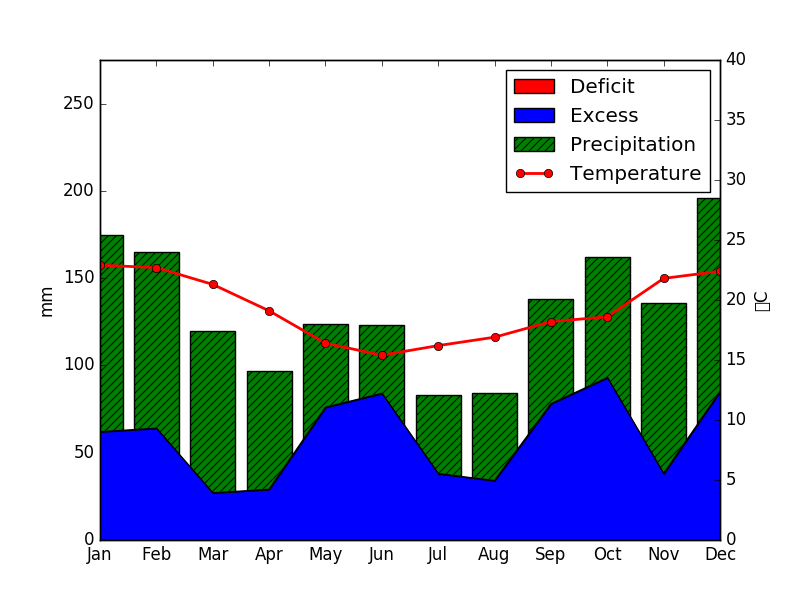
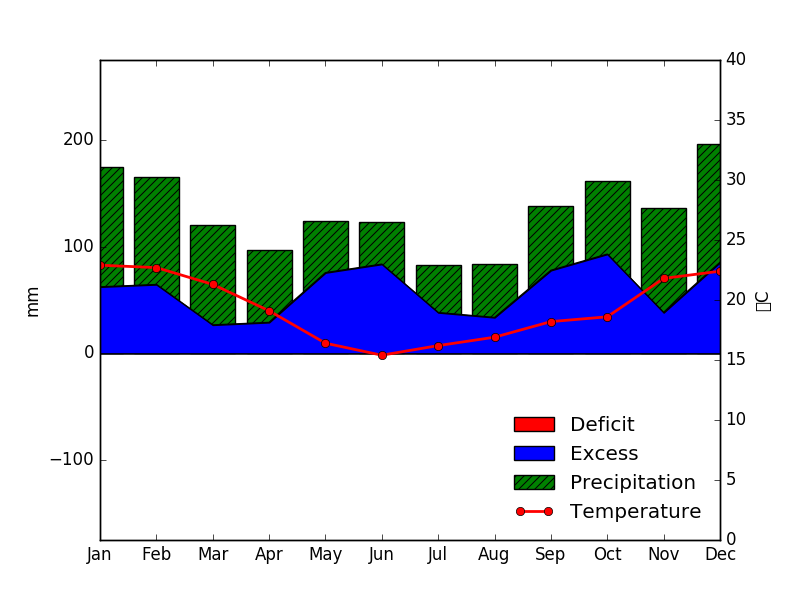
python3 update

diff --git a/graficos.py b/graficos.py
@@ -78,7 +78,7 @@ fig = plt.figure()
 ax = fig.gca(projection='3d')
 
 tck = interpolate.bisplrep(x_prev, y_prev, z, s=0)
-z_new = interpolate.bisplev(x_n[:,0], y_n[0,:], tck)
+z_new = interpolate.bisplev(x_n[:, 0], y_n[0,:], tck)
 
 surf = ax.plot_surface(x_n, y_n, z_new, rstride=1, cstride=1, cmap=cm.coolwarm,
                        linewidth=0, antialiased=True, alpha=0.7)
@@ -119,10 +119,10 @@ media_primavera = np.array([97.22, 53.25,
                             66.67, 59.44,
                             58.54, 55.00])
 
-z_primavera = np.polyfit(vol_primavera, media_primavera, 2)
-primavera_liner_reg = stats.linregress(vol_primavera, media_primavera)
+z_primavera = np.polyfit(vol_primavera[1:], media_primavera[1:], 2)
+primavera_liner_reg = stats.linregress(vol_primavera[1:], media_primavera[1:])
 p_primavera = np.poly1d(z_primavera)
-print pow(primavera_liner_reg.rvalue, 2), z_primavera
+print(pow(primavera_liner_reg.rvalue, 2), z_primavera)
 
 vol_verao = np.array([376.80, 384.20,
                       459.90, 481.40,
@@ -139,7 +139,7 @@ media_verao = np.array([60.24, 53.66,
 z_verao = np.polyfit(vol_verao, media_verao, 2)
 verao_liner_reg = stats.linregress(media_verao, media_verao)
 p_verao = np.poly1d(z_verao)
-print pow(verao_liner_reg.rvalue, 2), z_verao
+print(pow(verao_liner_reg.rvalue, 2), z_verao)
 
 vol_outono= np.array([144.00, 172.80,
                       174.80, 182.00,
@@ -156,7 +156,7 @@ media_outono = np.array([60.00, 54.63,
 z_outono = np.polyfit(vol_outono, media_outono, 2)
 outono_liner_reg = stats.linregress(vol_outono, media_outono)
 p_outono = np.poly1d(z_outono)
-print pow(outono_liner_reg.rvalue, 2), z_outono
+print(pow(outono_liner_reg.rvalue, 2), z_outono)
 
 vol_inverno = np.array([92.70, 97.10,
                         106.40, 109.00,
@@ -173,11 +173,11 @@ media_inverno = np.array([65.37, 66.11,
 z_inverno = np.polyfit(vol_inverno, media_inverno, 2)
 inverno_liner_reg = stats.linregress(vol_inverno, media_inverno)
 p_inverno = np.poly1d(z_inverno)
-print pow(inverno_liner_reg.rvalue, 2), z_inverno
+print(pow(inverno_liner_reg.rvalue, 2), z_inverno)
 
 
 #suavizando curva do grafico no eixo x para todos os valores
-vol_primavera_smooth = np.linspace(vol_primavera.min(), vol_primavera.max(), 300)
+vol_primavera_smooth = np.linspace(vol_primavera[1:].min(), vol_primavera[1:].max(), 300)
 vol_verao_smooth = np.linspace(vol_verao.min(), vol_verao.max(), 300)
 vol_outono_smooth= np.linspace(vol_outono.min(), vol_outono.max(), 300)
 vol_inverno_smooth = np.linspace(vol_inverno.min(), vol_inverno.max(), 300)
@@ -188,20 +188,20 @@ vol_inverno_smooth = np.linspace(vol_inverno.min(), vol_inverno.max(), 300)
 plt.subplot(221)
 
 #suavisando no eixo y
-smooth_primavera = spline(vol_primavera, p_primavera(vol_primavera), vol_primavera_smooth)
-print smooth_primavera
+smooth_primavera = spline(vol_primavera[1:], p_primavera(vol_primavera[1:]), vol_primavera_smooth)
+print(smooth_primavera)
 # fim
 plt.plot(vol_primavera, media_primavera, 'ks', vol_primavera_smooth, smooth_primavera, 'r-', lw=1)
 plt.axis([0, 1100, 45, 100])
 plt.setp(plt.gca(),  yticks=range(50, 105, 5), xticks=(0, 200, 400, 600, 800, 1000), xticklabels=[])
 plt.text(50, 90, 'A - Spring', fontsize=15)
 plt.ylabel('Accuracy (%)')
-plt.text(300, 75, r'$R^2 = 0.60$', fontsize=10)
+plt.text(300, 75, r'$R^2 = 0.73$', fontsize=10)
 
 plt.subplot(222)
 #suavisando no eixo y
 smooth_verao = spline(vol_verao, p_verao(vol_verao), vol_verao_smooth)
-print smooth_verao
+print(smooth_verao)
 # fim
 plt.plot(vol_verao, media_verao, 'ks', vol_verao_smooth, smooth_verao, 'r-', lw=1)
 plt.axis([0, 1100, 45, 100])
@@ -230,7 +230,7 @@ smooth_inverno = spline(vol_inverno, p_inverno(vol_inverno), vol_inverno_smooth)
 plt.plot(vol_inverno, media_inverno, 'ks', vol_inverno_smooth, smooth_inverno, 'r-', lw=1)
 plt.axis([0, 1100, 45, 100])
 plt.setp(plt.gca(), yticks=range(50, 105, 5),  yticklabels=[], xticks=(0, 200, 400, 600, 800, 1000))
-plt.text(50, 90, 'S - Winter', fontsize=15)
+plt.text(50, 90, 'D - Winter', fontsize=15)
 plt.xlabel('Precipitation (m)')
 plt.text(300, 75, r'$R^2 = 0.62$', fontsize=10)
 
@@ -251,7 +251,7 @@ media_primavera = np.array([53.248138324, 97.2222222222,
 z_primavera = np.polyfit(distancia_mar, media_primavera, 2)
 primavera_liner_reg = stats.linregress(distancia_mar, media_primavera)
 p_primavera = np.poly1d(z_primavera)
-print pow(primavera_liner_reg.rvalue, 2), z_primavera
+print(pow(primavera_liner_reg.rvalue, 2), z_primavera)
 
 media_verao = np.array([60.2380952381, 53.6585365854,
                         66.8292682927, 73.6585365853,
@@ -262,7 +262,7 @@ media_verao = np.array([60.2380952381, 53.6585365854,
 z_verao = np.polyfit(distancia_mar, media_verao, 2)
 verao_liner_reg = stats.linregress(distancia_mar, media_verao)
 p_verao = np.poly1d(z_verao)
-print pow(verao_liner_reg.rvalue, 2), z_verao
+print(pow(verao_liner_reg.rvalue, 2), z_verao)
 
 media_outono = np.array([61.4919354839, 65.0000000000,
                          60.0000000000, 57.0731707317,
@@ -273,7 +273,7 @@ media_outono = np.array([61.4919354839, 65.0000000000,
 z_outono = np.polyfit(distancia_mar, media_outono, 2)
 outono_liner_reg = stats.linregress(distancia_mar, media_outono)
 p_outono = np.poly1d(z_outono)
-print pow(outono_liner_reg.rvalue, 2), z_outono
+print(pow(outono_liner_reg.rvalue, 2), z_outono)
 
 media_inverno = np.array([97.3978494624, 75.1219512195,
                           70.7317073171, 78.5365853658,
@@ -284,7 +284,7 @@ media_inverno = np.array([97.3978494624, 75.1219512195,
 z_inverno = np.polyfit(distancia_mar, media_inverno, 2)
 inverno_liner_reg = stats.linregress(distancia_mar, media_inverno)
 p_inverno = np.poly1d(z_inverno)
-print pow(inverno_liner_reg.rvalue, 2), z_inverno
+print(pow(inverno_liner_reg.rvalue, 2), z_inverno)
 
 
 #suavizando curva do grafico no eixo x para todos os valores
@@ -362,7 +362,7 @@ media_primavera = np.array([97.2222222222, 53.248138324,
 z_primavera = np.polyfit(altitude, media_primavera, 2)
 primavera_liner_reg = stats.linregress(altitude, media_primavera)
 p_primavera = np.poly1d(z_primavera)
-print pow(primavera_liner_reg.rvalue, 2), z_primavera
+print(pow(primavera_liner_reg.rvalue, 2), z_primavera)
 
 
 media_verao = np.array([53.6585365854, 60.2380952381,
@@ -374,7 +374,7 @@ media_verao = np.array([53.6585365854, 60.2380952381,
 z_verao = np.polyfit(altitude, media_verao, 2)
 verao_liner_reg = stats.linregress(altitude, media_verao)
 p_verao = np.poly1d(z_verao)
-print pow(verao_liner_reg.rvalue, 2), z_verao
+print(pow(verao_liner_reg.rvalue, 2), z_verao)
 
 media_outono = np.array([65.0000000000, 61.4919354839,
                           50.5555555556, 60.0000000000,
@@ -385,7 +385,7 @@ media_outono = np.array([65.0000000000, 61.4919354839,
 z_outono = np.polyfit(altitude, media_outono, 2)
 verao_liner_reg = stats.linregress(altitude, media_outono)
 p_outono= np.poly1d(z_outono)
-print pow(verao_liner_reg.rvalue, 2), z_outono
+print(pow(verao_liner_reg.rvalue, 2), z_outono)
 
 media_inverno = np.array([75.1219512195, 97.3978494624,
                           85.0000000000, 66.1111111111,
@@ -396,7 +396,7 @@ media_inverno = np.array([75.1219512195, 97.3978494624,
 z_inverno = np.polyfit(altitude, media_inverno, 2)
 verao_liner_reg = stats.linregress(altitude, media_inverno)
 p_inverno= np.poly1d(z_inverno)
-print pow(verao_liner_reg.rvalue, 2), z_inverno
+print(pow(verao_liner_reg.rvalue, 2), z_inverno)
 
 #suavizando curva do grafico no eixo x para todos os valores
 altitude_mar_smooth = np.linspace(altitude.min(), altitude.max(), 300)
@@ -472,6 +472,16 @@ x_months = ['Jan', 'Feb', 'Mar', 'Apr',
             'Sep', 'Oct', 'Nov', 'Dec']
 
 # Campo mourao
+
+campo_mourao = {'temperature': [22.9, 22.7, 21.3, 19.1, 16.4, 15.4, 16.2, 16.9, 18.2, 18.6, 21.8, 22.4],
+                'precipitation': [175.0, 165.0, 120.0, 97.0, 124.0, 123.0, 83.0, 84.0, 138.0, 162.0, 136.0, 196.0],
+                'pet': [112.68, 100.53, 93.36, 67.98, 48.43, 39.37, 44.76, 50.43, 60.15, 69.02, 97.78, 110.67],
+                'storage': [100.00, 100.00, 100.00, 100.00, 100.00, 100.00, 100.00, 100.00, 100.00, 100.00, 100.00, 100.00],
+                'ret': [112.7, 100.5, 93.4, 68.0, 48.4, 39.4, 44.8, 50.4, 60.2, 69.0, 97.8, 110.7],
+                'def': [0.0, 0.0, 0.0, 0.0, 0.0, 0.0, 0.0, 0.0, 0.0, 0.0, 0.0, 0.0],
+                'exc': [62.3, 64.5, 26.6, 29.0, 75.6, 83.6, 38.2, 33.6, 77.8, 93.0, 38.2, 85.3]
+                }
+
 campo_mourao['def'] = [-i if i != 0 else 0 for i in campo_mourao['def']]
 
 fig = plt.figure()
@@ -492,17 +502,26 @@ ax2.set_ylim(0, 35)
 
 ax.set_ylabel('mm')
 ax.set_xlim(1, 12)
-ax.set_ylim(0, 275)
+ax.set_ylim(-175 , 275)
 
 ax2.set_ylim(0, 40)
 ax2.set_ylabel(u'⁰C')
 
-plt.legend(handles=[red_patch, blue_patch, green_patch, red_line], loc='best', frameon=False)
+plt.legend(handles=[red_patch, blue_patch, green_patch, red_line], loc='lower right', frameon=False)
 plt.xticks(range(1, 13), x_months)
 
 plt.show()
 
 # Jaguaruana
+
+jaguaruana = {'temperature': [27.9, 24.0, 26.9, 26.9, 25.2, 26.1, 26.0, 26.4, 27.3, 27.5, 28.1, 26.0],
+              'precipitation': [30.0, 123.0, 231.0, 181.0, 115.0, 55.0, 46.0, 55.0, 48.0, 3.0, 1.0, 17.0],
+              'pet': [166.21, 87.81, 147.69, 141.30, 113.15, 123.91, 126.03, 134.18, 148.69, 159.68, 169.33, 131.75,],
+              'storage': [0.01, 35.21, 100.00, 100.00, 100.00, 50.20, 22.55, 10.22, 3.73, 0.78, 0.14, 0.05,],
+              'ret': [30.0, 87.8, 147.7, 141.3, 113.1, 104.8, 73.7, 67.3, 54.5, 6.0, 1.6, 17.1],
+              'def': [136.2, 0.0, 0.0, 0.0, 0.0, 19.1, 52.4, 66.8, 94.2, 153.7, 167.7, 114.6],
+              'exc': [0.0, 0.0, 18.5, 39.7, 1.9, 0.0, 0.0, 0.0, 0.0, 0.0, 0.0, 0.0]
+              }
 
 jaguaruana['def'] = [-i if i != 0 else 0 for i in jaguaruana['def']]
 
@@ -529,7 +548,7 @@ ax2.set_ylim(0, 40)
 ax2.set_ylabel(u'⁰C')
 
 
-plt.legend(handles=[red_patch, blue_patch, green_patch, red_line], frameon=False)
+# plt.legend(handles=[red_patch, blue_patch, green_patch, red_line], frameon=False)
 plt.xticks(range(1, 13), x_months)
 
 plt.show()

diff --git a/coleta_dados_bdclima.py b/coleta_dados_bdclima.py
@@ -20,7 +20,7 @@ class GetData(object):
         try:
             return html.fromstring(self.get_html).xpath(xpath)
         except Exception as e:
-            print e
+            print(e)
             return None
 
     @staticmethod
